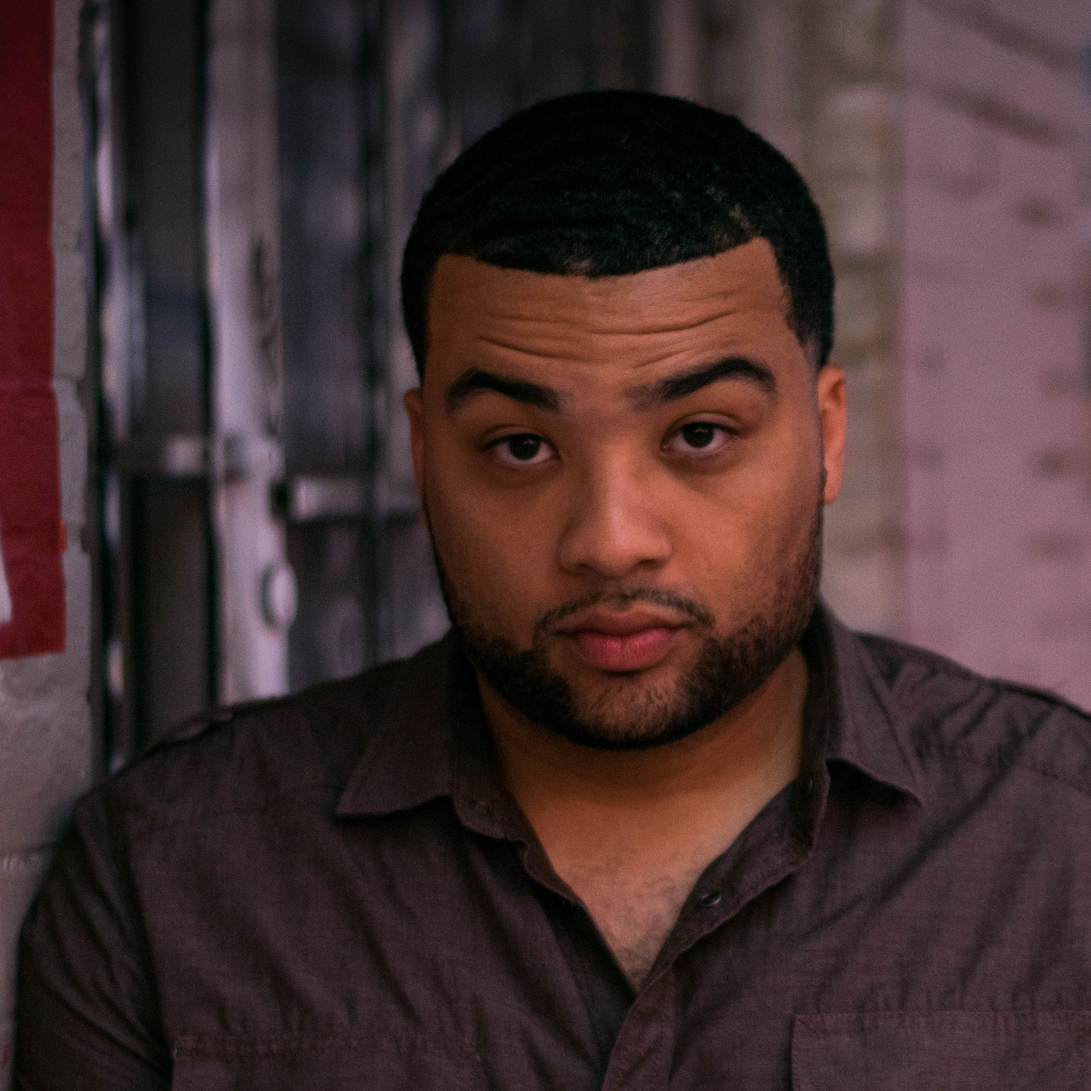
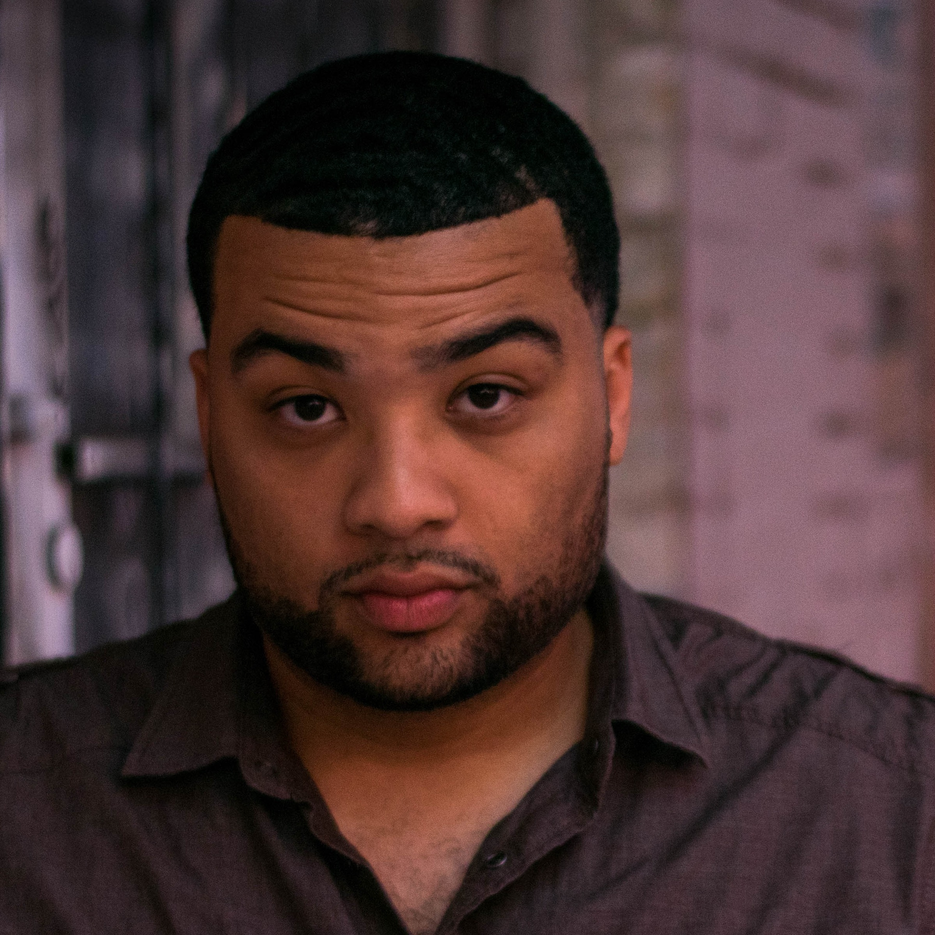
Precisely center face using grid-measured coordinates, verified with crosshair overlay

diff --git a/out-the-door/index.html b/out-the-door/index.html
@@ -7,7 +7,7 @@
 <meta name="description" content="Stream Out The Door by TJ King, produced with Onbin.">
 <meta property="og:title" content="TJ King — Out The Door">
 <meta property="og:description" content="Stream Out The Door, produced with Onbin.">
-<meta property="og:image" content="cover.jpg?v=20260910175231">
+<meta property="og:image" content="cover.jpg?v=20260910180904">
 <meta name="theme-color" content="#1A0A02">
 <style>
   :root {
@@ -81,7 +81,7 @@
 </head>
 <body>
 <main>
-  <img class="cover reveal" src="cover.jpg?v=20260910175231" alt="TJ King" width="240" height="240">
+  <img class="cover reveal" src="cover.jpg?v=20260910180904" alt="TJ King" width="240" height="240">
   <h1 class="reveal">OUT THE DOOR</h1>
   <p class="byline reveal">TJ King x Onbin</p>
 
